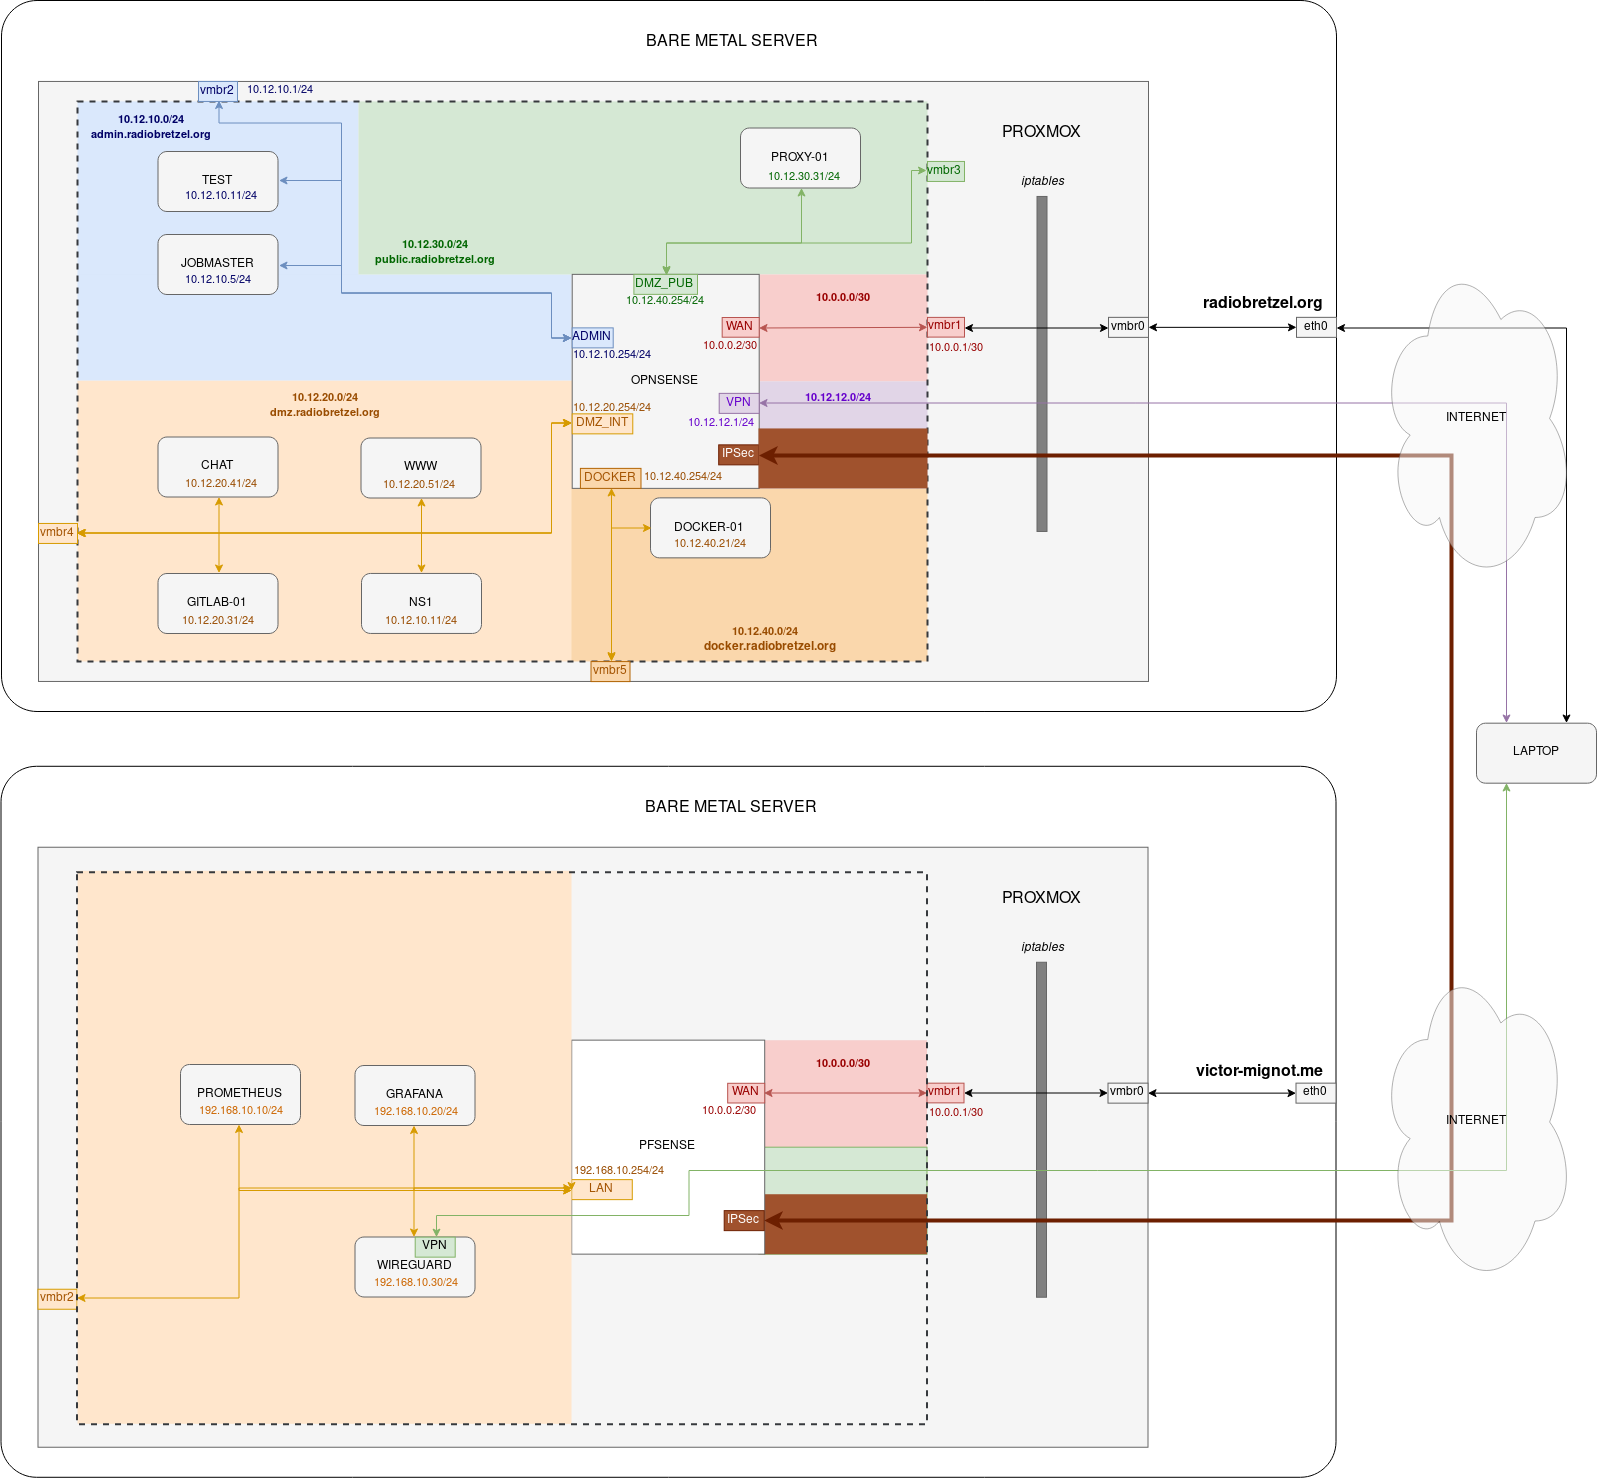
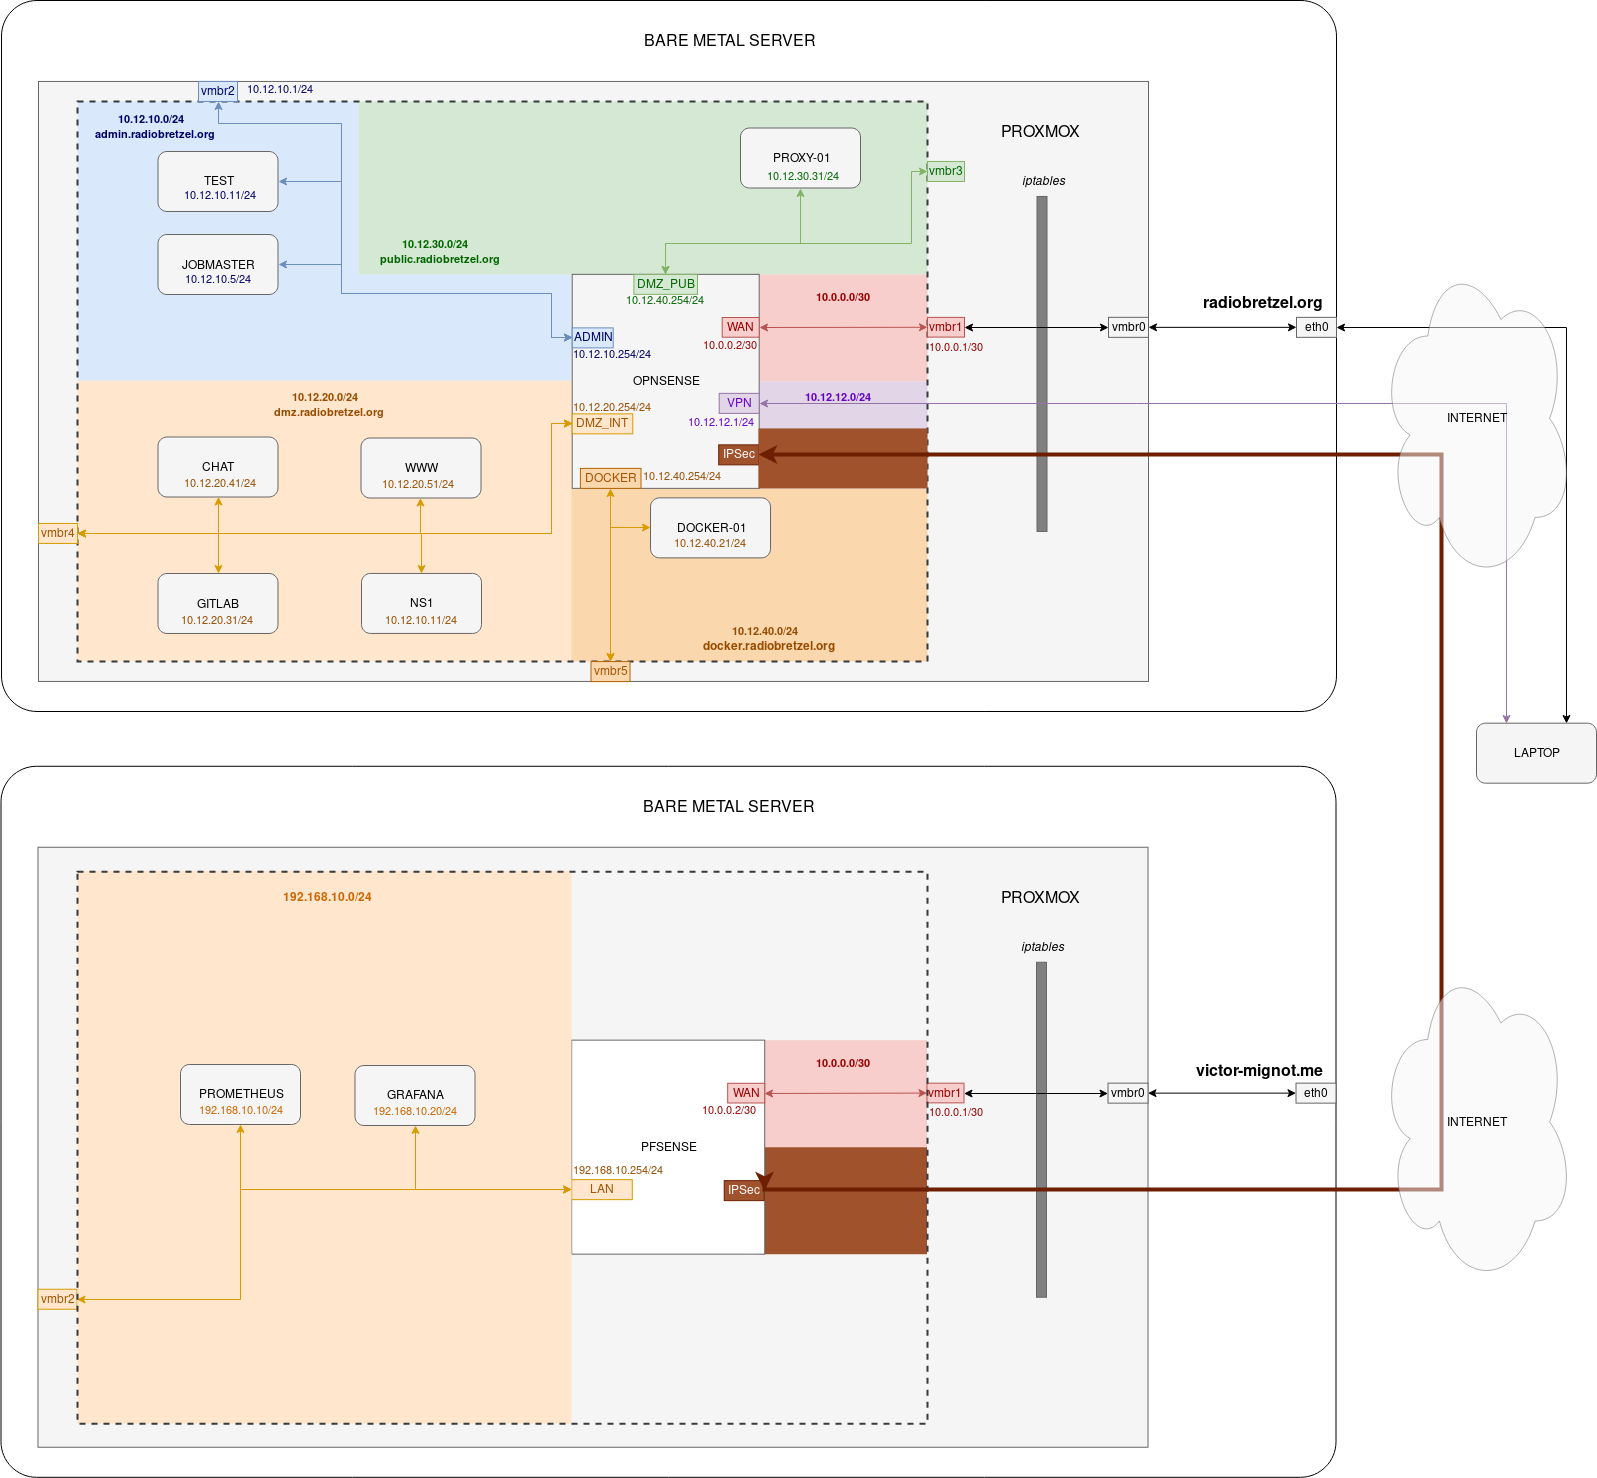
[WIP] v3

diff --git a/Rapport.md b/Rapport.md
@@ -5,42 +5,67 @@ et enfin présenterons quelques exemples de visualisation des données de superv
 
 
 ## Présentation de l'infrastructure
-La plateforme supervisée aujourd'hui est celle du projet libre Radio Bretzel (https://www.radiobretzel.org).
-Elle est hébergée sur un seul serveur physique et comporte quelques services web et entièrement virtualisés.
-Le réseau est géré par une instance OpnSense virtuelle placée en frontal. (cf Schéma Archi 1)
-Afin de monitorer cette infra, nous utilisons la plateforme personnelle de Victor Mignot. Composée entre autre d'un pfSense virtuel en frontal,
-comme pour Radio Bretzel, cette plateforme sera destinée à héberger les services de monitoring dans le cadre de ce TP.
+L'infrastructure supervisée aujourd'hui est celle de la plateforme de développement de [Radio Bretzel](https://www.radiobretzel.org), un projet libre d'application web.
+Entièrement virtualisée, elle est hébergée sur un seul serveur physique et propose quelques services web, tels qu'un outil de gestion de version, un registre Docker et un outil de chat.
+Afin de monitorer cette infra, nous utiliserons la plateforme personnelle de Victor Mignot. Elle sera destinée à héberger les services de monitoring dans le cadre de ce TP.
+
+### Définition des actifs et priorités
+Dans un système d'information, certains éléments sont forcément plus semsibles que d'autres. Il est donc important de définir des priorités et des degrés de criticité en fonction de l'activité du SI et du métier ; une entreprise dont le métier est l'hébergement web sera un peu plus sensible à une chute du service `apache2` sur leurs serveurs de production qu'un service FTP sur l'environnement de développement.  
+
+#### Principaux actifs
+Pour commencer, toute la plateforme est accessible depuis internet via le nom de domaine [radiobretzel.org](https://www.whois.com/whois/radiobretzel.org).
+Si la disponibilité de sa plateforme est appréciable, **l'essentiel du projet Radio Bretzel repose sur l'intégrité de son code et de sa documentation.** Ces éléments, ainsi qu'une partie de la configuration de la plateforme est versionné et géré à travers une instance Gitlab, accessible via l'URL https://source.radiobretzel.org. Ce service se constitue de l'application `gitlab`, son serveur de base de données `mariadb` (hébergé sur la même VM), et il est placé derrière un reverse proxy qui s'occupe de la terminaison SSL. Egalement, Gitlab fait appel à un `gitlab-runner` comme outil de CI CD, qui permet de lancer des builds automatisés sur une instance Docker isolée (docker-01.docker.radiobretzel.org). Il fournit au passage un registre docker pour les projets qu'il héberge.
+
+Gitlab est accompagné d'une instance Mattermost pour qui il sert de serveur d'authentification, et dans lequel il publie des messages relatifs aux pipelines de CI-CD et à la création d'issues. Elle est accessible via https://chat.radiobretzel.org et se constitue du service `mattermost`, de sa base de données PostgreSQL, et il est lui aussi placé derrière un reverse proxy.
+
+D'autre part, un site web vitrine sert de page d'accueil pour les robots et les éventuels touristes qui découvrent le projet. Il est accessible via https://www.radiobretzel.org, et n'est constitué que d'une seule page html statique hébergée sur un serveur `apache2`, toujours derrière notre reverse proxy.
+
+Pour s'assurer de l'intégrité des données, un mécanisme de sauvegarde est mis en place et lancé depuis une machine d'administration. Il réalise un export des données des différents services, et les exporte vers une machine tierce, hors plateforme. Cette machine est une raspberry, utilisant RaspBian et accessible en SSH via le nom de domaine papybretzel.ddns.net
+
+Enfin, un serveur OpenVPN destiné à l'administration de la plateforme est accessible depuis internet via le nom de domaine vpn.radiobretzel.org.
+
+#### Présentation technique
+##### Plateforme monitorée
+La plateforme de Radio Bretzel est hébergée sur un seul serveur physique, hébergé dans le Cloud Online.net.Elle est divisée en plusieurs réseaux pour isoler les différents services hébergés. :
+* **10.12.10.0/24** -> ADMIN. Réseau de management interne de la plateforme Radio Bretzel. Accessible en interne via le sous-domaine **admin.radiobretzel.org**
+* **10.12.20.0/24** -> DMZ_INT. DMZ interne hébergeant les différents services de Radio Bretzel. Accessible en interne via le sous-domaine **dmz.radiobretzel.org**
+* **10.12.30.0/24** -> DMZ_PUB. DMZ externe, hébergeant le reverse proxy (pas de WAF pour l'instant =( ). Accessible en interne via le sous-domaine **public.radiobretzel.org**
+* **10.12.40.0/24** -> DOCKER. DMZ dédiée à faire tourner des hôtes dockers contrôlés par des gitlab-runners. Accessible en interne par le nom de domaine **docker.radiobretzel.org**
+* **10.12.12.0/24** -> VPN_SSL. VPN SSL OpenVPN hébergé directement sur l'OpnSense pour les accès de maintenance.
+
+Ces réseaux comprennent un ensemble de machines virtuelles :
+* **jobmaster.admin.radiobretzel.org** : Machine de pilotage, accessoirement hôte responsable des processus de backup et de déploiement de configuration (Ansible)
+* **console.admin.radiobretzel.org** : Accès à Proxmox (hyperviseur), soit la machine physique, depuis le réseau interne.
+* **fw.admin.radiobretzel.org** : Firewall OpnSense encharge du routage et du filtrage réseau de la plateforme. Héberge également l'instance VPN via la prise en charge de la terminaison OpenVPN
+* **ns1.dmz.radiobretzel.org** : Serveur DNS interne
+* **www.dmz.radiobretzel.org** : Serveur web. Site statique (HTML/CSS only)
+* **gitlab.dmz.radiobretzel.org** : Instance gitlab installée via omnibus. Accessible depuis le net via https://source.radiobretzel.org. Héberge également un registre docker (https://registry.radiobretzel.org)
+* **proxy-01.public.radiobretzel.org** : HTTP Reverse Proxy utilisant nginx. Projet de Naxsi / Modsecurity à l'étude, pas encore implémenté. Terminaison SSL pour les services accessibles depuis l'extérieur (Let's Encrypt)
+* **chat.dmz.radiobretzel.org** : Instance Mattermost câblée via oAuth à Gitlab. Installée via le gitlab omnibus installer. (https://chat.radiobretzel.org)
 
 
-#### Description des réseaux :
-  * Perceval (victor-mignot.me):
-    * 192.168.10.0/24 -> LAN. Réseau dédié au monitoring de l'infra de Radio Bretzel
-  * Bretzelix-4000 (radiobretzel.org):
-    * 10.12.10.0/24 -> ADMIN. Réseau de management interne de la plateforme Radio Bretzel
-    * 10.12.20.0/24 -> DMZ_INT. DMZ interne hébergeant les différents services de Radio Bretzel
-    * 10.12.30.0/24 -> DMZ_PUB. DMZ externe, hébergeant le reverse proxy (pas de WAF pour l'instant =( )
-    * 10.12.40.0/24 -> DOCKER. DMZ dédiée à faire tourner des hôtes dockers contrôlés par des gitlab-runners
-    * 10.12.12.0/24 -> VPN_SSL. VPN SSL OpenVPN hébergé directement sur l'OpnSense pour les accès de maintenance.
 
+##### Plateforme de surveillance
+La plateforme de monitoring est externe, et a été montée pour l'occasion. Elle est hébergée sur un autre serveur physique, dans le cloud aussi.
+* Perceval (victor-mignot.me):
+  * 192.168.10.0/24 -> LAN. Réseau dédié au monitoring de l'infra de Radio Bretzel
 Des tunnels IPSec sont mis en place entre les 2 firewalls afin d'encapsuler le trafic entre les 2 plateformes à travers internet. L'un est un `pfSense`, l'autre un `OpnSense`
 
 Tunnels IPSec :
-  * ADMIN     <-->  LAN
-  * DMZ_INT   <-->  LAN
-  * DMZ_PUB   <-->  LAN
-  * DOCKER    <-->  LAN
-  * VPN_SSL    -->  LAN (dans le but de travailler depuis )
+* ADMIN     <-->  LAN
+* DMZ_INT   <-->  LAN
+* DMZ_PUB   <-->  LAN
+* DOCKER    <-->  LAN
+* VPN_SSL    -->  LAN (sens unique)
 
-#### Description des services
-Les machines de la plateforme Radio Bretzel ont les rôles suivants :
-* **jobmaster.admin.radiobretzel.org** : Machine de pilotage, accessoirement hôte responsable des processus de backup et de déploiement de configuration (Ansible)
-* **console.admin.radiobretzel.org** : Accès à Proxmox (hyperviseur), soit la machine physique, depuis le réseau interne.
-* **fw.admin.radiobretzel.org** : Accès à l'interface d'administration du OpnSense de Radio Bretzel.
-* **ns1.dmz.radiobretzel.org** : Serveur DNS interne
-* **www.dmz.radiobretzel.org** :  Serveur web. Site statique (HTML/CSS only)
-* **gitlab.dmz.radiobretzel.org** : Instance gitlab installée via omnibus. Accessible depuis le net via https://source.radiobretzel.org. Héberge également un registre docker (https://registry.radiobretzel.org)
-* **chat.dmz.radiobretzel.org** : Instance Mattermost câblée via oAuth à Gitlab. Installée via le gitlab omnibus installer. (https://chat.radiobretzel.org)
-* **proxy-01.public.radiobretzel.org** : HTTP Reverse Proxy utilisant nginx. Projet de Naxsi / Modsecurity à l'étude, pas encore implémenté. Terminaison SSL pour les services accessibles depuis l'extérieur (Let's Encrypt)
+
+
+.
+
+La disponibilité des services énoncés précédemment dépend directement du service de DNS interne. Chacune des interactions des interactions entre les différentes application de la plateforme utilisent un serveur DNS
+
+
+
 
 
 ## Présentation de la solution de supervision
@@ -50,18 +75,16 @@ Pour ce TP, nous avons voulu essayer la stack Prometheus / Grafana. Elle se comp
 * **Grafana**, l'outil de visualisation et dashboarding via interface web. Il utilise `PromQL` pour générer dynamiquement des dashboard. Le site officiel [grafana.com](https://grafana.com/dashboards) recense des centaines de dashboards créés par et pour la communauté.
 
 
-## Mise en place de la solution de surveillance
 ### Choix des métriques collectées
+Le choix des métriques collectées découle directement de la priorisation des actifs et de la qualité de service visée.
 
-La première étape de la mise en place d'une solution de surveillance est de définir les métriques à surveiller et en définir les seuils d'alerte. En effet, une métrique est un moyen de décrire de manière quantitative un procesus, un comportement
-Pour toutes les machines, virtuelles comme physiques, le minimum est de surveiller:
+Pour toute machine, virtuelle comme physique, le minimum est de surveiller:
 * La charge CPU
 * Le taux d'utilisation de la RAM
 * L'espace disque disponible sur toutes les partitions
 * Le taux d'occupation de la bande passante des cartes réseaux
 * Le nombre de mises à jour système disponibles (de sécurité / logicielles)
 * Certains services d'administration comme `sshd`
-
 
 D'autre part, il est aussi intéressant de surveiller certains services propres au rôle de chaque machine. Par exemple :
 * Surveiller `apache2` / `nginx` sur les serveurs web
@@ -70,11 +93,28 @@ D'autre part, il est aussi intéressant de surveiller certains services propres 
 * Surveiller `promox` sur les machines physiques
 Pour cela il nous suffit de nous assurer que le service est actif et activé au démarrage.
 
-Enfin, nous surveillerons différents éléments propres à nos équipements réseaux, `OpnSense` et `pfSense` :
+Nous surveillerons aussi différents éléments propres à nos équipements réseaux, `OpnSense` et `pfSense` :
 * Service `openVPN` hébergé sur `OpnSense`
 * Etat du VPN IPSec reliant les deux infrastructures
 * Les différentes métriques relatives au filtrage de trafic, comme par exemple le nombre de paquets rejetés par minute.
 
 
+
 ### Définition des seuils
-Si la récolte de métriques est fondamentale, les données brutes ne servent à rien si elle ne sont pas comparables à une échelle.
+Une fois les mécanismes d'agrégation de métriques en place, il nous faut définir des seuils à partir desquels nous souhaitons déclencher des actions.  
+Dans le cas de Radio Bretzel, peu d'aspects de l'administration de la plateforme sont automatisés. Ainsi, les seules actions que nous choisirons de mettre en place sont des alertes par mail, ou par chat Mattermost.
+
+#### Métriques système communes
+Si certaines métriques sont systématiquement surveillées, leurs valeurs seuil sont pour la plupart conventionnelles, et ne nécessitent pas d'étalonnage préalables. Par exemple :
+* RAM :
+  * Si % utilisation > 85 % --> Avertissement
+  * Si % utilisation > 95 % --> Alerte critique
+* CPU :
+  * Si % utilisation > 85 % --> Avertissement
+  * Si % utilisation > 95 % --> Alerte critique
+* Stockage (pour chaque partition) :
+  * Si % d'espace libre < 15 % --> Avertissement
+  * Si % d'espace libre < 5 % --> Alerte critique
+
+
+## Mise en place de la solution de surveillance
